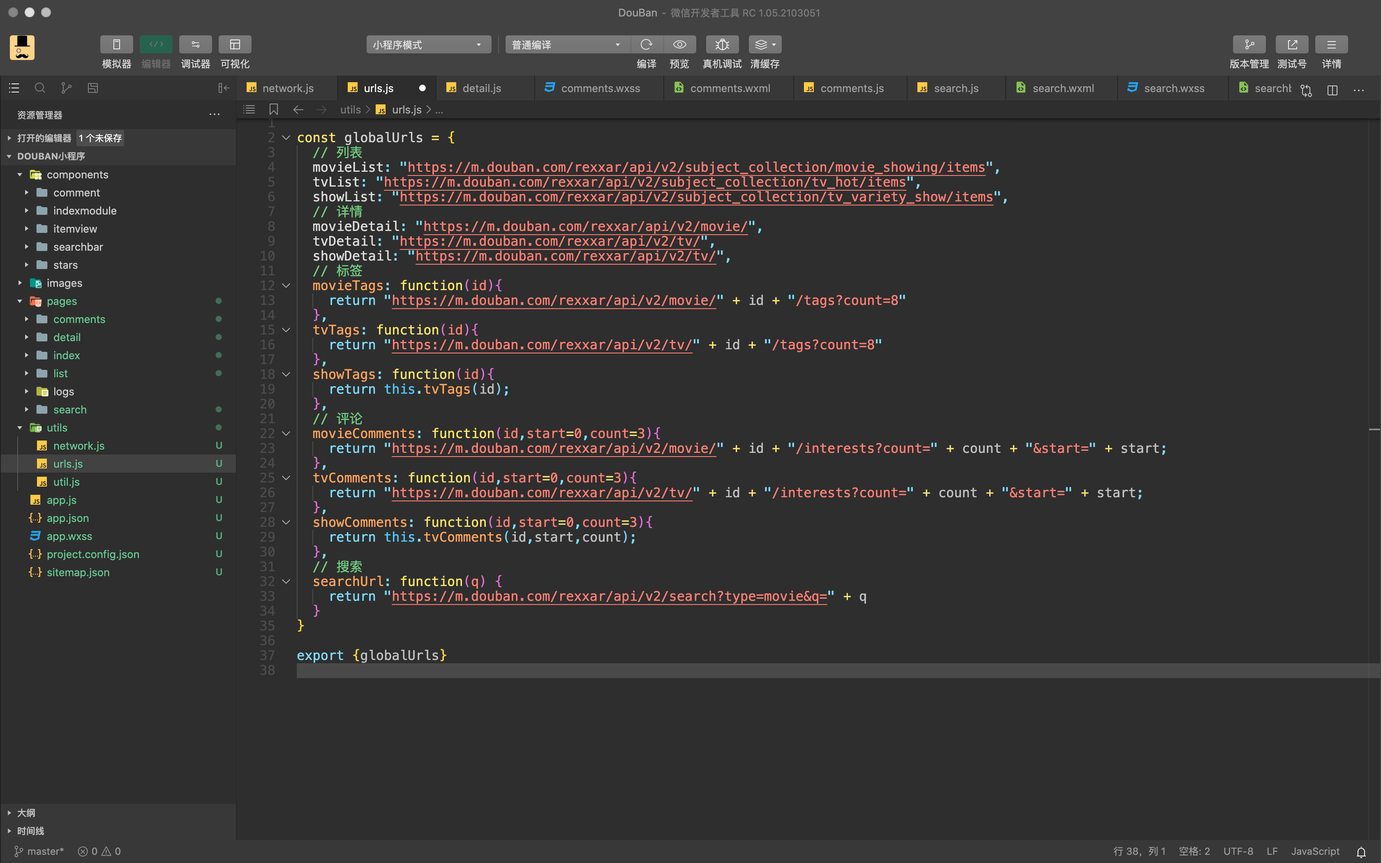
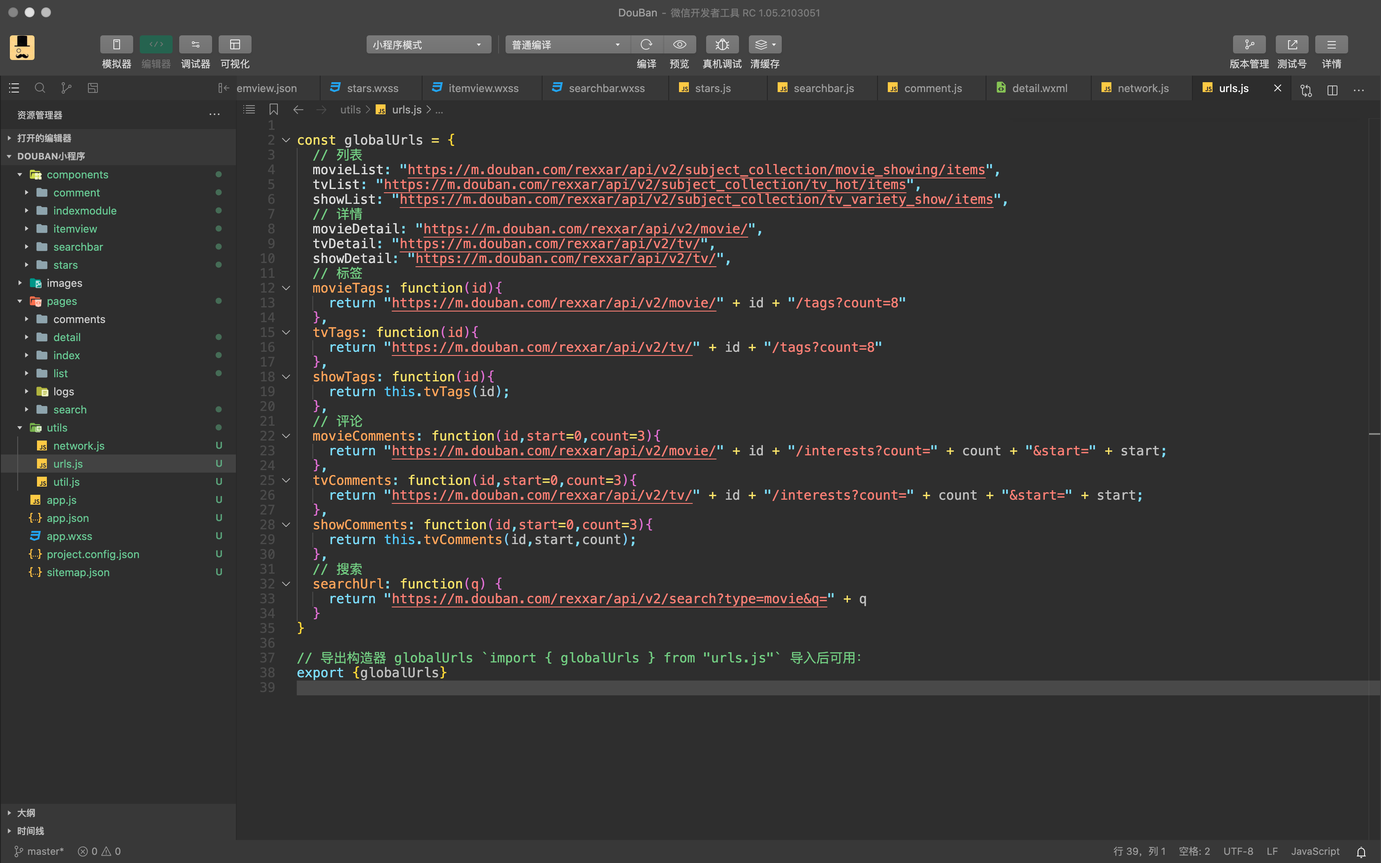
Site updated: 2021-03-25 17:04:52

diff --git a/2021/03/02/Other/微信小程序/index.html b/2021/03/02/Other/微信小程序/index.html
@@ -90,7 +90,7 @@
 <meta property="og:image" content="http://yoursite.com/2021/03/02/Other/微信小程序/微信小程序07.png">
 <meta property="og:image" content="http://yoursite.com/2021/03/02/Other/微信小程序/微信小程序09.png">
 <meta property="og:image" content="http://yoursite.com/2021/03/02/Other/微信小程序/微信小程序10.png">
-<meta property="og:updated_time" content="2021-03-25T08:57:25.616Z">
+<meta property="og:updated_time" content="2021-03-25T09:04:22.516Z">
 <meta name="twitter:card" content="summary">
 <meta name="twitter:title" content="微信小程序">
 <meta name="twitter:description" content="微信官方文档">
@@ -387,12 +387,13 @@
 <h4 id="search-js"><a href="#search-js" class="headerlink" title="search.js"></a>search.js</h4><figure class="highlight cs"><table><tr><td class="gutter"><pre><div class="line">1</div><div class="line">2</div><div class="line">3</div><div class="line">4</div><div class="line">5</div><div class="line">6</div><div class="line">7</div><div class="line">8</div><div class="line">9</div><div class="line">10</div><div class="line">11</div><div class="line">12</div><div class="line">13</div><div class="line">14</div><div class="line">15</div><div class="line">16</div><div class="line">17</div><div class="line">18</div><div class="line">19</div><div class="line">20</div><div class="line">21</div><div class="line">22</div><div class="line">23</div><div class="line">24</div><div class="line">25</div><div class="line">26</div><div class="line">27</div><div class="line">28</div><div class="line">29</div><div class="line">30</div><div class="line">31</div><div class="line">32</div><div class="line">33</div></pre></td><td class="code"><pre><div class="line"><span class="comment">// components/searchbar/searchbar.js</span></div><div class="line">Component(&#123;</div><div class="line">  <span class="comment">/**</span></div><div class="line"><span class="comment">   * 组件的属性列表</span></div><div class="line"><span class="comment">   */</span></div><div class="line">  properties: &#123;</div><div class="line">    isnavigator: &#123;</div><div class="line">      type: Boolean,</div><div class="line">      <span class="keyword">value</span>: <span class="literal">false</span></div><div class="line">    &#125;</div><div class="line">  &#125;,</div><div class="line"></div><div class="line">  <span class="comment">/**</span></div><div class="line"><span class="comment">   * 组件的初始数据</span></div><div class="line"><span class="comment">   */</span></div><div class="line">  data: &#123;</div><div class="line"></div><div class="line">  &#125;,</div><div class="line"></div><div class="line">  <span class="comment">/**</span></div><div class="line"><span class="comment">   * 组件的方法列表</span></div><div class="line"><span class="comment">   */</span></div><div class="line">  methods: &#123;</div><div class="line">    <span class="comment">// 输入框输入回调</span></div><div class="line">    onInputEvent: function(<span class="keyword">event</span>) &#123;</div><div class="line">      <span class="keyword">var</span> <span class="keyword">value</span> = <span class="keyword">event</span>.detail.<span class="keyword">value</span>;</div><div class="line">      <span class="keyword">var</span> detail = &#123;<span class="string">"value"</span>: <span class="keyword">value</span>&#125;;</div><div class="line">      <span class="keyword">var</span> options = &#123;&#125;;</div><div class="line">      <span class="comment">// 回调方法</span></div><div class="line">      <span class="keyword">this</span>.triggerEvent(<span class="string">"searchinput"</span>,detail,options);</div><div class="line">    &#125;</div><div class="line">  &#125;</div><div class="line">&#125;)</div></pre></td></tr></table></figure>
 <p><code>isnavigator</code> 用于判断是否创建导航控件。<br><code>onInputEvent</code> 是输入框正在输入的回调事件。<br><code>this.triggerEvent(&quot;searchinput&quot;,detail,options);</code> 主动触发事件 triggerEvent，参数为 “searchinput”,detail,options。因为这里的 searchbar 是自定义组件，所以需要将输入事件传递给外部调用者，外部调用者需要实现 triggerEvent 事件。</p>
 <h2 id="网络"><a href="#网络" class="headerlink" title="网络"></a>网络</h2><h3 id="urls-js"><a href="#urls-js" class="headerlink" title="urls.js"></a>urls.js</h3><p><img src="/2021/03/02/Other/微信小程序/微信小程序11.png" alt="微信小程序11"></p>
-<p>定义类 globalUrls：<br><figure class="highlight actionscript"><table><tr><td class="gutter"><pre><div class="line">1</div><div class="line">2</div><div class="line">3</div></pre></td><td class="code"><pre><div class="line"><span class="keyword">const</span> globalUrls = &#123;</div><div class="line">    <span class="comment">// 内容</span></div><div class="line">&#125;</div></pre></td></tr></table></figure></p>
+<p>定义构造器 globalUrls：<br><figure class="highlight actionscript"><table><tr><td class="gutter"><pre><div class="line">1</div><div class="line">2</div><div class="line">3</div></pre></td><td class="code"><pre><div class="line"><span class="keyword">const</span> globalUrls = &#123;</div><div class="line">    <span class="comment">// 内容</span></div><div class="line">&#125;</div></pre></td></tr></table></figure></p>
 <p>定义 url 变量：<br><figure class="highlight dts"><table><tr><td class="gutter"><pre><div class="line">1</div><div class="line">2</div><div class="line">3</div><div class="line">4</div><div class="line">5</div><div class="line">6</div><div class="line">7</div><div class="line">8</div></pre></td><td class="code"><pre><div class="line"><span class="comment">// 列表</span></div><div class="line"><span class="symbol">movieList:</span> <span class="string">"https://m.douban.com/rexxar/api/v2/subject_collection/movie_showing/items"</span>,</div><div class="line"><span class="symbol">tvList:</span> <span class="string">"https://m.douban.com/rexxar/api/v2/subject_collection/tv_hot/items"</span>,</div><div class="line"><span class="symbol">showList:</span> <span class="string">"https://m.douban.com/rexxar/api/v2/subject_collection/tv_variety_show/items"</span>,</div><div class="line"><span class="comment">// 详情</span></div><div class="line"><span class="symbol">movieDetail:</span> <span class="string">"https://m.douban.com/rexxar/api/v2/movie/"</span>,</div><div class="line"><span class="symbol">tvDetail:</span> <span class="string">"https://m.douban.com/rexxar/api/v2/tv/"</span>,</div><div class="line"><span class="symbol">showDetail:</span> <span class="string">"https://m.douban.com/rexxar/api/v2/tv/"</span>,</div></pre></td></tr></table></figure></p>
 <p>根据参数拼接 url：<br><figure class="highlight actionscript"><table><tr><td class="gutter"><pre><div class="line">1</div><div class="line">2</div><div class="line">3</div><div class="line">4</div><div class="line">5</div><div class="line">6</div><div class="line">7</div><div class="line">8</div><div class="line">9</div><div class="line">10</div><div class="line">11</div><div class="line">12</div><div class="line">13</div><div class="line">14</div><div class="line">15</div><div class="line">16</div><div class="line">17</div><div class="line">18</div><div class="line">19</div><div class="line">20</div><div class="line">21</div><div class="line">22</div><div class="line">23</div><div class="line">24</div></pre></td><td class="code"><pre><div class="line"><span class="comment">// 标签</span></div><div class="line">movieTags: <span class="function"><span class="keyword">function</span><span class="params">(id)</span></span>&#123;</div><div class="line">  <span class="keyword">return</span> <span class="string">"https://m.douban.com/rexxar/api/v2/movie/"</span> + id + <span class="string">"/tags?count=8"</span></div><div class="line">&#125;,</div><div class="line">tvTags: <span class="function"><span class="keyword">function</span><span class="params">(id)</span></span>&#123;</div><div class="line">  <span class="keyword">return</span> <span class="string">"https://m.douban.com/rexxar/api/v2/tv/"</span> + id + <span class="string">"/tags?count=8"</span></div><div class="line">&#125;,</div><div class="line">showTags: <span class="function"><span class="keyword">function</span><span class="params">(id)</span></span>&#123;</div><div class="line">  <span class="keyword">return</span> <span class="keyword">this</span>.tvTags(id);</div><div class="line">&#125;,</div><div class="line"><span class="comment">// 评论</span></div><div class="line">movieComments: <span class="function"><span class="keyword">function</span><span class="params">(id,start=0,count=3)</span></span>&#123;</div><div class="line">  <span class="keyword">return</span> <span class="string">"https://m.douban.com/rexxar/api/v2/movie/"</span> + id + <span class="string">"/interests?count="</span> + count + <span class="string">"&amp;start="</span> + start;</div><div class="line">&#125;,</div><div class="line">tvComments: <span class="function"><span class="keyword">function</span><span class="params">(id,start=0,count=3)</span></span>&#123;</div><div class="line">  <span class="keyword">return</span> <span class="string">"https://m.douban.com/rexxar/api/v2/tv/"</span> + id + <span class="string">"/interests?count="</span> + count + <span class="string">"&amp;start="</span> + start;</div><div class="line">&#125;,</div><div class="line">showComments: <span class="function"><span class="keyword">function</span><span class="params">(id,start=0,count=3)</span></span>&#123;</div><div class="line">  <span class="keyword">return</span> <span class="keyword">this</span>.tvComments(id,start,count);</div><div class="line">&#125;,</div><div class="line"><span class="comment">// 搜索</span></div><div class="line">searchUrl: <span class="function"><span class="keyword">function</span><span class="params">(q)</span> </span>&#123;</div><div class="line">  <span class="keyword">return</span> <span class="string">"https://m.douban.com/rexxar/api/v2/search?type=movie&amp;q="</span> + q</div><div class="line">&#125;</div></pre></td></tr></table></figure></p>
-<p>导出 globalUrls 类，导出后外部调用者通过 <code>import { globalUrls } from &quot;urls.js&quot;</code> 导入后可用：<br><figure class="highlight routeros"><table><tr><td class="gutter"><pre><div class="line">1</div></pre></td><td class="code"><pre><div class="line"><span class="builtin-name">export</span> &#123;globalUrls&#125;</div></pre></td></tr></table></figure></p>
-<h3 id="network"><a href="#network" class="headerlink" title="network"></a>network</h3><figure class="highlight lasso"><table><tr><td class="gutter"><pre><div class="line">1</div><div class="line">2</div><div class="line">3</div><div class="line">4</div><div class="line">5</div><div class="line">6</div><div class="line">7</div><div class="line">8</div><div class="line">9</div><div class="line">10</div><div class="line">11</div><div class="line">12</div><div class="line">13</div><div class="line">14</div><div class="line">15</div><div class="line">16</div><div class="line">17</div><div class="line">18</div><div class="line">19</div><div class="line">20</div><div class="line">21</div><div class="line">22</div><div class="line">23</div><div class="line">24</div><div class="line">25</div><div class="line">26</div><div class="line">27</div><div class="line">28</div><div class="line">29</div><div class="line">30</div><div class="line">31</div><div class="line">32</div><div class="line">33</div><div class="line">34</div><div class="line">35</div><div class="line">36</div><div class="line">37</div><div class="line">38</div><div class="line">39</div><div class="line">40</div><div class="line">41</div><div class="line">42</div><div class="line">43</div><div class="line">44</div><div class="line">45</div><div class="line">46</div><div class="line">47</div><div class="line">48</div><div class="line">49</div><div class="line">50</div><div class="line">51</div><div class="line">52</div><div class="line">53</div><div class="line">54</div><div class="line">55</div><div class="line">56</div><div class="line">57</div><div class="line">58</div><div class="line">59</div><div class="line">60</div><div class="line">61</div><div class="line">62</div><div class="line">63</div><div class="line">64</div><div class="line">65</div><div class="line">66</div><div class="line">67</div><div class="line">68</div><div class="line">69</div><div class="line">70</div><div class="line">71</div><div class="line">72</div><div class="line">73</div><div class="line">74</div><div class="line">75</div><div class="line">76</div><div class="line">77</div><div class="line">78</div><div class="line">79</div><div class="line">80</div><div class="line">81</div><div class="line">82</div><div class="line">83</div><div class="line">84</div><div class="line">85</div><div class="line">86</div><div class="line">87</div><div class="line">88</div><div class="line">89</div><div class="line">90</div><div class="line">91</div><div class="line">92</div><div class="line">93</div><div class="line">94</div><div class="line">95</div><div class="line">96</div><div class="line">97</div><div class="line">98</div><div class="line">99</div><div class="line">100</div><div class="line">101</div><div class="line">102</div><div class="line">103</div><div class="line">104</div><div class="line">105</div><div class="line">106</div><div class="line">107</div><div class="line">108</div><div class="line">109</div><div class="line">110</div><div class="line">111</div><div class="line">112</div><div class="line">113</div><div class="line">114</div><div class="line">115</div><div class="line">116</div><div class="line">117</div><div class="line">118</div><div class="line">119</div><div class="line">120</div><div class="line">121</div><div class="line">122</div><div class="line">123</div><div class="line">124</div><div class="line">125</div><div class="line">126</div><div class="line">127</div><div class="line">128</div><div class="line">129</div><div class="line">130</div><div class="line">131</div><div class="line">132</div><div class="line">133</div><div class="line">134</div><div class="line">135</div><div class="line">136</div><div class="line">137</div><div class="line">138</div><div class="line">139</div><div class="line">140</div><div class="line">141</div><div class="line">142</div><div class="line">143</div><div class="line">144</div><div class="line">145</div><div class="line">146</div><div class="line">147</div><div class="line">148</div><div class="line">149</div><div class="line">150</div><div class="line">151</div><div class="line">152</div><div class="line">153</div><div class="line">154</div><div class="line">155</div></pre></td><td class="code"><pre><div class="line"><span class="comment">// 导入 globalUrls 类</span></div><div class="line"><span class="keyword">import</span> &#123; globalUrls &#125; from <span class="string">"urls.js"</span></div><div class="line"></div><div class="line"></div><div class="line"><span class="comment">// 定义类 network</span></div><div class="line">const network = &#123;</div><div class="line">  <span class="comment">// 电影</span></div><div class="line">  getMovieList: function (<span class="keyword">params</span>) &#123;</div><div class="line">    <span class="keyword">params</span>.<span class="keyword">type</span> = <span class="string">"movie"</span>;</div><div class="line">    this.getItemList(<span class="keyword">params</span>);</div><div class="line">  &#125;,</div><div class="line"></div><div class="line">  <span class="comment">// 电视剧</span></div><div class="line">  getTVList: function (<span class="keyword">params</span>) &#123;</div><div class="line">    <span class="keyword">params</span>.<span class="keyword">type</span> = <span class="string">"tv"</span>;</div><div class="line">    this.getItemList(<span class="keyword">params</span>);</div><div class="line">  &#125;,</div><div class="line"></div><div class="line">  <span class="comment">// 综艺</span></div><div class="line">  getShowList: function (<span class="keyword">params</span>) &#123;</div><div class="line">    <span class="keyword">params</span>.<span class="keyword">type</span> = <span class="string">"show"</span>;</div><div class="line">    this.getItemList(<span class="keyword">params</span>);</div><div class="line">  &#125;,</div><div class="line"></div><div class="line">  <span class="comment">// 首页列表</span></div><div class="line">  getItemList: function (<span class="keyword">params</span>) &#123;</div><div class="line">    <span class="built_in">var</span> url = <span class="string">""</span>;</div><div class="line">    <span class="keyword">if</span> (<span class="keyword">params</span>.<span class="keyword">type</span> == <span class="string">"movie"</span>) &#123;</div><div class="line">      url = globalUrls.movieList;</div><div class="line">    &#125; <span class="keyword">else</span> <span class="keyword">if</span> (<span class="keyword">params</span>.<span class="keyword">type</span> == <span class="string">"tv"</span>) &#123;</div><div class="line">      url = globalUrls.tvList;</div><div class="line">    &#125; <span class="keyword">else</span> <span class="keyword">if</span> (<span class="keyword">params</span>.<span class="keyword">type</span> == <span class="string">"show"</span>) &#123;</div><div class="line">      url = globalUrls.showList;</div><div class="line">    &#125; <span class="keyword">else</span> &#123; </div><div class="line">    </div><div class="line">    &#125;</div><div class="line">    <span class="built_in">var</span> count = <span class="keyword">params</span>.count ? <span class="keyword">params</span>.count : <span class="number">7</span>;</div><div class="line">    <span class="comment">// 发起网络请求</span></div><div class="line">    wx.request(&#123;</div><div class="line">      <span class="comment">// 设置请求url</span></div><div class="line">      url: url,</div><div class="line">      <span class="comment">// 设置请求参数</span></div><div class="line">      <span class="built_in">data</span>: &#123;</div><div class="line">        count: count</div><div class="line">      &#125;,</div><div class="line">      <span class="comment">// 请求成功回调</span></div><div class="line">      success: function(res) &#123;</div><div class="line">        <span class="built_in">var</span> items = res.<span class="built_in">data</span>.subject_collection_items;</div><div class="line">        <span class="built_in">var</span> itemCount = items.length;</div><div class="line">        <span class="built_in">var</span> left = itemCount%<span class="number">3</span>;</div><div class="line">        <span class="keyword">if</span> (left === <span class="number">2</span>) &#123;</div><div class="line">          items.push(<span class="built_in">null</span>);</div><div class="line">        &#125;</div><div class="line">        <span class="keyword">if</span> (<span class="keyword">params</span> &amp;&amp; <span class="keyword">params</span>.success) &#123;</div><div class="line">          <span class="keyword">params</span>.success(items);</div><div class="line">        &#125;</div><div class="line">      &#125;</div><div class="line">    &#125;)</div><div class="line">  &#125;,</div><div class="line">  </div><div class="line">  <span class="comment">// 详情</span></div><div class="line">  getItemDetail: function(<span class="keyword">params</span>) &#123;</div><div class="line">    <span class="built_in">var</span> <span class="keyword">type</span> = <span class="keyword">params</span>.<span class="keyword">type</span>;</div><div class="line">    <span class="built_in">var</span> id = <span class="keyword">params</span>.id;</div><div class="line">    <span class="built_in">var</span> url = <span class="string">""</span>;</div><div class="line">    <span class="keyword">if</span> (<span class="keyword">type</span> === <span class="string">"movie"</span>) &#123;</div><div class="line">      url = globalUrls.movieDetail + id;</div><div class="line">    &#125; <span class="keyword">else</span> <span class="keyword">if</span> (<span class="keyword">type</span> === <span class="string">"tv"</span>) &#123;</div><div class="line">      url = globalUrls.tvDetail + id;</div><div class="line">    &#125; <span class="keyword">else</span> <span class="keyword">if</span> (<span class="keyword">type</span> === <span class="string">"show"</span>) &#123;</div><div class="line">      url = globalUrls.showDetail + id;</div><div class="line">    &#125; <span class="keyword">else</span> &#123;</div><div class="line"></div><div class="line">    &#125;</div><div class="line">    wx.request(&#123;</div><div class="line">      url: url,</div><div class="line">      success: function(res) &#123;</div><div class="line">        <span class="built_in">var</span> item = res.<span class="built_in">data</span>;</div><div class="line">        <span class="keyword">if</span> (<span class="keyword">params</span>.success) &#123;</div><div class="line">          <span class="keyword">params</span>.success(item);</div><div class="line">        &#125;</div><div class="line">      &#125;</div><div class="line">    &#125;)</div><div class="line">  &#125;,</div><div class="line">  </div><div class="line">  <span class="comment">// 标签</span></div><div class="line">  getItemTags: function(<span class="keyword">params</span>) &#123;</div><div class="line">    <span class="built_in">var</span> <span class="keyword">type</span> = <span class="keyword">params</span>.<span class="keyword">type</span>;</div><div class="line">    <span class="built_in">var</span> id = <span class="keyword">params</span>.id;</div><div class="line">    <span class="built_in">var</span> url = <span class="string">""</span>;</div><div class="line">    <span class="keyword">if</span> (<span class="keyword">type</span> === <span class="string">"movie"</span>) &#123;</div><div class="line">      url = globalUrls.movieTags(id);</div><div class="line">    &#125; <span class="keyword">else</span> <span class="keyword">if</span> (<span class="keyword">type</span> === <span class="string">"tv"</span>) &#123;</div><div class="line">      url = globalUrls.tvTags(id);</div><div class="line">    &#125; <span class="keyword">else</span> <span class="keyword">if</span> (<span class="keyword">type</span> === <span class="string">"show"</span>) &#123;</div><div class="line">      url = globalUrls.showTags(id);</div><div class="line">    &#125; <span class="keyword">else</span> &#123;</div><div class="line"></div><div class="line">    &#125;</div><div class="line">    wx.request(&#123;</div><div class="line">      url: url,</div><div class="line">      success: function(res) &#123;</div><div class="line">        <span class="built_in">var</span> tags = res.<span class="built_in">data</span>.tags;</div><div class="line">        <span class="keyword">if</span> (<span class="keyword">params</span>.success) &#123;</div><div class="line">          <span class="keyword">params</span>.success(tags)</div><div class="line">        &#125;</div><div class="line">      &#125;</div><div class="line">    &#125;)</div><div class="line">  &#125;,</div><div class="line"></div><div class="line">  <span class="comment">// 评论</span></div><div class="line">  getItemComments: function(<span class="keyword">params</span>) &#123;</div><div class="line">    <span class="built_in">var</span> <span class="keyword">type</span> = <span class="keyword">params</span>.<span class="keyword">type</span>;</div><div class="line">    <span class="built_in">var</span> id = <span class="keyword">params</span>.id;</div><div class="line">    <span class="built_in">var</span> start = <span class="keyword">params</span>.start;</div><div class="line">    <span class="built_in">var</span> count = <span class="keyword">params</span>.count;</div><div class="line">    <span class="built_in">var</span> url = <span class="string">""</span>;</div><div class="line">    <span class="keyword">if</span> (<span class="keyword">type</span> === <span class="string">"movie"</span>) &#123;</div><div class="line">      url = globalUrls.movieComments(id,start,count);</div><div class="line">    &#125; <span class="keyword">else</span> <span class="keyword">if</span> (<span class="keyword">type</span> === <span class="string">"tv"</span>) &#123;</div><div class="line">      url = globalUrls.tvComments(id,start,count);</div><div class="line">    &#125; <span class="keyword">else</span> <span class="keyword">if</span> (<span class="keyword">type</span> === <span class="string">"show"</span>) &#123;</div><div class="line">      url = globalUrls.showComments(id,start,count);</div><div class="line">    &#125; <span class="keyword">else</span> &#123;</div><div class="line"></div><div class="line">    &#125;</div><div class="line">    wx.request(&#123;</div><div class="line">      url: url,</div><div class="line">      success: function(res)&#123;</div><div class="line">        <span class="built_in">var</span> comment = res.<span class="built_in">data</span>;</div><div class="line">        <span class="keyword">if</span> (<span class="keyword">params</span>.success) &#123;</div><div class="line">          <span class="keyword">params</span>.success(comment); </div><div class="line">        &#125;</div><div class="line">      &#125;</div><div class="line">    &#125;)</div><div class="line">  &#125;,</div><div class="line"></div><div class="line">  <span class="comment">// 搜索</span></div><div class="line">  getSearch: function(<span class="keyword">params</span>) &#123;</div><div class="line">    <span class="built_in">var</span> q = <span class="keyword">params</span>.q;</div><div class="line">    <span class="built_in">var</span> url = globalUrls.searchUrl(q);</div><div class="line">    wx.request(&#123;</div><div class="line">      url: url,</div><div class="line">      success: function(res)&#123;</div><div class="line">        <span class="built_in">var</span> subjects = res.<span class="built_in">data</span>.subjects;</div><div class="line">        <span class="keyword">if</span> (<span class="keyword">params</span>.success) &#123;</div><div class="line">          <span class="keyword">params</span>.success(subjects);</div><div class="line">        &#125;</div><div class="line">      &#125;</div><div class="line">    &#125;)</div><div class="line">  &#125;</div><div class="line">&#125;</div><div class="line"></div><div class="line"><span class="comment">// 导出 network 类，导出后外部调用者通过 `import &#123;network&#125; from "../../utils/network.js"` 导入后可用：</span></div><div class="line">export &#123; network &#125;</div></pre></td></tr></table></figure>
+<p>导出构造器 globalUrls，导出后外部调用者通过 <code>import { globalUrls } from &quot;urls.js&quot;</code> 导入后可用：<br><figure class="highlight routeros"><table><tr><td class="gutter"><pre><div class="line">1</div></pre></td><td class="code"><pre><div class="line"><span class="builtin-name">export</span> &#123;globalUrls&#125;</div></pre></td></tr></table></figure></p>
+<h3 id="network"><a href="#network" class="headerlink" title="network"></a>network</h3><figure class="highlight lasso"><table><tr><td class="gutter"><pre><div class="line">1</div><div class="line">2</div><div class="line">3</div><div class="line">4</div><div class="line">5</div><div class="line">6</div><div class="line">7</div><div class="line">8</div><div class="line">9</div><div class="line">10</div><div class="line">11</div><div class="line">12</div><div class="line">13</div><div class="line">14</div><div class="line">15</div><div class="line">16</div><div class="line">17</div><div class="line">18</div><div class="line">19</div><div class="line">20</div><div class="line">21</div><div class="line">22</div><div class="line">23</div><div class="line">24</div><div class="line">25</div><div class="line">26</div><div class="line">27</div><div class="line">28</div><div class="line">29</div><div class="line">30</div><div class="line">31</div><div class="line">32</div><div class="line">33</div><div class="line">34</div><div class="line">35</div><div class="line">36</div><div class="line">37</div><div class="line">38</div><div class="line">39</div><div class="line">40</div><div class="line">41</div><div class="line">42</div><div class="line">43</div><div class="line">44</div><div class="line">45</div><div class="line">46</div><div class="line">47</div><div class="line">48</div><div class="line">49</div><div class="line">50</div><div class="line">51</div><div class="line">52</div><div class="line">53</div><div class="line">54</div><div class="line">55</div><div class="line">56</div><div class="line">57</div><div class="line">58</div><div class="line">59</div><div class="line">60</div><div class="line">61</div><div class="line">62</div><div class="line">63</div><div class="line">64</div><div class="line">65</div><div class="line">66</div><div class="line">67</div><div class="line">68</div><div class="line">69</div><div class="line">70</div><div class="line">71</div><div class="line">72</div><div class="line">73</div><div class="line">74</div><div class="line">75</div><div class="line">76</div><div class="line">77</div><div class="line">78</div><div class="line">79</div><div class="line">80</div><div class="line">81</div><div class="line">82</div><div class="line">83</div><div class="line">84</div><div class="line">85</div><div class="line">86</div><div class="line">87</div><div class="line">88</div><div class="line">89</div><div class="line">90</div><div class="line">91</div><div class="line">92</div><div class="line">93</div><div class="line">94</div><div class="line">95</div><div class="line">96</div><div class="line">97</div><div class="line">98</div><div class="line">99</div><div class="line">100</div><div class="line">101</div><div class="line">102</div><div class="line">103</div><div class="line">104</div><div class="line">105</div><div class="line">106</div><div class="line">107</div><div class="line">108</div><div class="line">109</div><div class="line">110</div><div class="line">111</div><div class="line">112</div><div class="line">113</div><div class="line">114</div><div class="line">115</div><div class="line">116</div><div class="line">117</div><div class="line">118</div><div class="line">119</div><div class="line">120</div><div class="line">121</div><div class="line">122</div><div class="line">123</div><div class="line">124</div><div class="line">125</div><div class="line">126</div><div class="line">127</div><div class="line">128</div><div class="line">129</div><div class="line">130</div><div class="line">131</div><div class="line">132</div><div class="line">133</div><div class="line">134</div><div class="line">135</div><div class="line">136</div><div class="line">137</div><div class="line">138</div><div class="line">139</div><div class="line">140</div><div class="line">141</div><div class="line">142</div><div class="line">143</div><div class="line">144</div><div class="line">145</div><div class="line">146</div><div class="line">147</div><div class="line">148</div><div class="line">149</div><div class="line">150</div><div class="line">151</div><div class="line">152</div><div class="line">153</div><div class="line">154</div><div class="line">155</div></pre></td><td class="code"><pre><div class="line"><span class="comment">// 导入 globalUrls 类</span></div><div class="line"><span class="keyword">import</span> &#123; globalUrls &#125; from <span class="string">"urls.js"</span></div><div class="line"></div><div class="line"></div><div class="line"><span class="comment">// 定义构造器 network</span></div><div class="line">const network = &#123;</div><div class="line">  <span class="comment">// 电影</span></div><div class="line">  getMovieList: function (<span class="keyword">params</span>) &#123;</div><div class="line">    <span class="keyword">params</span>.<span class="keyword">type</span> = <span class="string">"movie"</span>;</div><div class="line">    this.getItemList(<span class="keyword">params</span>);</div><div class="line">  &#125;,</div><div class="line"></div><div class="line">  <span class="comment">// 电视剧</span></div><div class="line">  getTVList: function (<span class="keyword">params</span>) &#123;</div><div class="line">    <span class="keyword">params</span>.<span class="keyword">type</span> = <span class="string">"tv"</span>;</div><div class="line">    this.getItemList(<span class="keyword">params</span>);</div><div class="line">  &#125;,</div><div class="line"></div><div class="line">  <span class="comment">// 综艺</span></div><div class="line">  getShowList: function (<span class="keyword">params</span>) &#123;</div><div class="line">    <span class="keyword">params</span>.<span class="keyword">type</span> = <span class="string">"show"</span>;</div><div class="line">    this.getItemList(<span class="keyword">params</span>);</div><div class="line">  &#125;,</div><div class="line"></div><div class="line">  <span class="comment">// 首页列表</span></div><div class="line">  getItemList: function (<span class="keyword">params</span>) &#123;</div><div class="line">    <span class="built_in">var</span> url = <span class="string">""</span>;</div><div class="line">    <span class="keyword">if</span> (<span class="keyword">params</span>.<span class="keyword">type</span> == <span class="string">"movie"</span>) &#123;</div><div class="line">      url = globalUrls.movieList;</div><div class="line">    &#125; <span class="keyword">else</span> <span class="keyword">if</span> (<span class="keyword">params</span>.<span class="keyword">type</span> == <span class="string">"tv"</span>) &#123;</div><div class="line">      url = globalUrls.tvList;</div><div class="line">    &#125; <span class="keyword">else</span> <span class="keyword">if</span> (<span class="keyword">params</span>.<span class="keyword">type</span> == <span class="string">"show"</span>) &#123;</div><div class="line">      url = globalUrls.showList;</div><div class="line">    &#125; <span class="keyword">else</span> &#123; </div><div class="line">    </div><div class="line">    &#125;</div><div class="line">    <span class="built_in">var</span> count = <span class="keyword">params</span>.count ? <span class="keyword">params</span>.count : <span class="number">7</span>;</div><div class="line">    <span class="comment">// 发起网络请求</span></div><div class="line">    wx.request(&#123;</div><div class="line">      <span class="comment">// 设置请求url</span></div><div class="line">      url: url,</div><div class="line">      <span class="comment">// 设置请求参数</span></div><div class="line">      <span class="built_in">data</span>: &#123;</div><div class="line">        count: count</div><div class="line">      &#125;,</div><div class="line">      <span class="comment">// 请求成功回调</span></div><div class="line">      success: function(res) &#123;</div><div class="line">        <span class="built_in">var</span> items = res.<span class="built_in">data</span>.subject_collection_items;</div><div class="line">        <span class="built_in">var</span> itemCount = items.length;</div><div class="line">        <span class="built_in">var</span> left = itemCount%<span class="number">3</span>;</div><div class="line">        <span class="keyword">if</span> (left === <span class="number">2</span>) &#123;</div><div class="line">          items.push(<span class="built_in">null</span>);</div><div class="line">        &#125;</div><div class="line">        <span class="keyword">if</span> (<span class="keyword">params</span> &amp;&amp; <span class="keyword">params</span>.success) &#123;</div><div class="line">          <span class="keyword">params</span>.success(items);</div><div class="line">        &#125;</div><div class="line">      &#125;</div><div class="line">    &#125;)</div><div class="line">  &#125;,</div><div class="line">  </div><div class="line">  <span class="comment">// 详情</span></div><div class="line">  getItemDetail: function(<span class="keyword">params</span>) &#123;</div><div class="line">    <span class="built_in">var</span> <span class="keyword">type</span> = <span class="keyword">params</span>.<span class="keyword">type</span>;</div><div class="line">    <span class="built_in">var</span> id = <span class="keyword">params</span>.id;</div><div class="line">    <span class="built_in">var</span> url = <span class="string">""</span>;</div><div class="line">    <span class="keyword">if</span> (<span class="keyword">type</span> === <span class="string">"movie"</span>) &#123;</div><div class="line">      url = globalUrls.movieDetail + id;</div><div class="line">    &#125; <span class="keyword">else</span> <span class="keyword">if</span> (<span class="keyword">type</span> === <span class="string">"tv"</span>) &#123;</div><div class="line">      url = globalUrls.tvDetail + id;</div><div class="line">    &#125; <span class="keyword">else</span> <span class="keyword">if</span> (<span class="keyword">type</span> === <span class="string">"show"</span>) &#123;</div><div class="line">      url = globalUrls.showDetail + id;</div><div class="line">    &#125; <span class="keyword">else</span> &#123;</div><div class="line"></div><div class="line">    &#125;</div><div class="line">    wx.request(&#123;</div><div class="line">      url: url,</div><div class="line">      success: function(res) &#123;</div><div class="line">        <span class="built_in">var</span> item = res.<span class="built_in">data</span>;</div><div class="line">        <span class="keyword">if</span> (<span class="keyword">params</span>.success) &#123;</div><div class="line">          <span class="keyword">params</span>.success(item);</div><div class="line">        &#125;</div><div class="line">      &#125;</div><div class="line">    &#125;)</div><div class="line">  &#125;,</div><div class="line">  </div><div class="line">  <span class="comment">// 标签</span></div><div class="line">  getItemTags: function(<span class="keyword">params</span>) &#123;</div><div class="line">    <span class="built_in">var</span> <span class="keyword">type</span> = <span class="keyword">params</span>.<span class="keyword">type</span>;</div><div class="line">    <span class="built_in">var</span> id = <span class="keyword">params</span>.id;</div><div class="line">    <span class="built_in">var</span> url = <span class="string">""</span>;</div><div class="line">    <span class="keyword">if</span> (<span class="keyword">type</span> === <span class="string">"movie"</span>) &#123;</div><div class="line">      url = globalUrls.movieTags(id);</div><div class="line">    &#125; <span class="keyword">else</span> <span class="keyword">if</span> (<span class="keyword">type</span> === <span class="string">"tv"</span>) &#123;</div><div class="line">      url = globalUrls.tvTags(id);</div><div class="line">    &#125; <span class="keyword">else</span> <span class="keyword">if</span> (<span class="keyword">type</span> === <span class="string">"show"</span>) &#123;</div><div class="line">      url = globalUrls.showTags(id);</div><div class="line">    &#125; <span class="keyword">else</span> &#123;</div><div class="line"></div><div class="line">    &#125;</div><div class="line">    wx.request(&#123;</div><div class="line">      url: url,</div><div class="line">      success: function(res) &#123;</div><div class="line">        <span class="built_in">var</span> tags = res.<span class="built_in">data</span>.tags;</div><div class="line">        <span class="keyword">if</span> (<span class="keyword">params</span>.success) &#123;</div><div class="line">          <span class="keyword">params</span>.success(tags)</div><div class="line">        &#125;</div><div class="line">      &#125;</div><div class="line">    &#125;)</div><div class="line">  &#125;,</div><div class="line"></div><div class="line">  <span class="comment">// 评论</span></div><div class="line">  getItemComments: function(<span class="keyword">params</span>) &#123;</div><div class="line">    <span class="built_in">var</span> <span class="keyword">type</span> = <span class="keyword">params</span>.<span class="keyword">type</span>;</div><div class="line">    <span class="built_in">var</span> id = <span class="keyword">params</span>.id;</div><div class="line">    <span class="built_in">var</span> start = <span class="keyword">params</span>.start;</div><div class="line">    <span class="built_in">var</span> count = <span class="keyword">params</span>.count;</div><div class="line">    <span class="built_in">var</span> url = <span class="string">""</span>;</div><div class="line">    <span class="keyword">if</span> (<span class="keyword">type</span> === <span class="string">"movie"</span>) &#123;</div><div class="line">      url = globalUrls.movieComments(id,start,count);</div><div class="line">    &#125; <span class="keyword">else</span> <span class="keyword">if</span> (<span class="keyword">type</span> === <span class="string">"tv"</span>) &#123;</div><div class="line">      url = globalUrls.tvComments(id,start,count);</div><div class="line">    &#125; <span class="keyword">else</span> <span class="keyword">if</span> (<span class="keyword">type</span> === <span class="string">"show"</span>) &#123;</div><div class="line">      url = globalUrls.showComments(id,start,count);</div><div class="line">    &#125; <span class="keyword">else</span> &#123;</div><div class="line"></div><div class="line">    &#125;</div><div class="line">    wx.request(&#123;</div><div class="line">      url: url,</div><div class="line">      success: function(res)&#123;</div><div class="line">        <span class="built_in">var</span> comment = res.<span class="built_in">data</span>;</div><div class="line">        <span class="keyword">if</span> (<span class="keyword">params</span>.success) &#123;</div><div class="line">          <span class="keyword">params</span>.success(comment); </div><div class="line">        &#125;</div><div class="line">      &#125;</div><div class="line">    &#125;)</div><div class="line">  &#125;,</div><div class="line"></div><div class="line">  <span class="comment">// 搜索</span></div><div class="line">  getSearch: function(<span class="keyword">params</span>) &#123;</div><div class="line">    <span class="built_in">var</span> q = <span class="keyword">params</span>.q;</div><div class="line">    <span class="built_in">var</span> url = globalUrls.searchUrl(q);</div><div class="line">    wx.request(&#123;</div><div class="line">      url: url,</div><div class="line">      success: function(res)&#123;</div><div class="line">        <span class="built_in">var</span> subjects = res.<span class="built_in">data</span>.subjects;</div><div class="line">        <span class="keyword">if</span> (<span class="keyword">params</span>.success) &#123;</div><div class="line">          <span class="keyword">params</span>.success(subjects);</div><div class="line">        &#125;</div><div class="line">      &#125;</div><div class="line">    &#125;)</div><div class="line">  &#125;</div><div class="line">&#125;</div><div class="line"></div><div class="line"><span class="comment">// 导出构造器 network，导出后外部调用者通过 `import &#123;network&#125; from "../../utils/network.js"` 导入后可用：</span></div><div class="line">export &#123; network &#125;</div></pre></td></tr></table></figure>
 <h2 id="页面"><a href="#页面" class="headerlink" title="页面"></a>页面</h2><p><img src="https://developers.weixin.qq.com/miniprogram/dev/framework/app-service/page-life-cycle.html" alt="页面生命周期"></p>
+<p>生命周期函数在 .js 文件：<a href="https://developers.weixin.qq.com/miniprogram/dev/framework/app-service/page.html" target="_blank" rel="external">注册页面</a></p>
 <h3 id="首页"><a href="#首页" class="headerlink" title="首页"></a>首页</h3><p><img src="/2021/03/02/Other/微信小程序/微信小程序07.png" alt="微信小程序07"></p>
 <h4 id="index-wxml"><a href="#index-wxml" class="headerlink" title="index.wxml"></a>index.wxml</h4><figure class="highlight django"><table><tr><td class="gutter"><pre><div class="line">1</div><div class="line">2</div><div class="line">3</div><div class="line">4</div><div class="line">5</div><div class="line">6</div><div class="line">7</div><div class="line">8</div><div class="line">9</div><div class="line">10</div><div class="line">11</div></pre></td><td class="code"><pre><div class="line"><span class="xml"><span class="comment">&lt;!--index.wxml--&gt;</span></span></div><div class="line"><span class="xml"><span class="tag">&lt;<span class="name">searchbar</span> <span class="attr">isnavigator</span>=<span class="string">"</span></span></span><span class="template-variable">&#123;&#123;true&#125;&#125;</span><span class="xml"><span class="tag"><span class="string">"</span>&gt;</span><span class="tag">&lt;/<span class="name">searchbar</span>&gt;</span></span></div><div class="line"><span class="xml"></span></div><div class="line"><span class="xml"><span class="comment">&lt;!-- 电影 --&gt;</span></span></div><div class="line"><span class="xml"><span class="tag">&lt;<span class="name">indexmodule</span> <span class="attr">title</span>=<span class="string">"电影"</span> <span class="attr">moreurl</span>=<span class="string">"/pages/list/list?type=movie"</span> <span class="attr">items</span>=<span class="string">"</span></span></span><span class="template-variable">&#123;&#123;movies&#125;&#125;</span><span class="xml"><span class="tag"><span class="string">"</span> <span class="attr">type</span>=<span class="string">"movie"</span>&gt;</span><span class="tag">&lt;/<span class="name">indexmodule</span>&gt;</span></span></div><div class="line"><span class="xml"></span></div><div class="line"><span class="xml"><span class="comment">&lt;!-- 电视剧 --&gt;</span></span></div><div class="line"><span class="xml"><span class="tag">&lt;<span class="name">indexmodule</span> <span class="attr">title</span>=<span class="string">"电视剧"</span> <span class="attr">moreurl</span>=<span class="string">"/pages/list/list?type=tv"</span> <span class="attr">items</span>=<span class="string">"</span></span></span><span class="template-variable">&#123;&#123;tvs&#125;&#125;</span><span class="xml"><span class="tag"><span class="string">"</span> <span class="attr">type</span>=<span class="string">"tv"</span>&gt;</span><span class="tag">&lt;/<span class="name">indexmodule</span>&gt;</span></span></div><div class="line"><span class="xml"></span></div><div class="line"><span class="xml"><span class="comment">&lt;!-- 综艺 --&gt;</span></span></div><div class="line"><span class="xml"><span class="tag">&lt;<span class="name">indexmodule</span> <span class="attr">title</span>=<span class="string">"综艺"</span> <span class="attr">moreurl</span>=<span class="string">"/pages/list/list?type=show"</span> <span class="attr">items</span>=<span class="string">"</span></span></span><span class="template-variable">&#123;&#123;shows&#125;&#125;</span><span class="xml"><span class="tag"><span class="string">"</span> <span class="attr">type</span>=<span class="string">"show"</span>&gt;</span><span class="tag">&lt;/<span class="name">indexmodule</span>&gt;</span></span></div></pre></td></tr></table></figure>
 <p>创建自定义组件 <code>searchbar</code>， 指定导航 isnavigator = true。<br><figure class="highlight django"><table><tr><td class="gutter"><pre><div class="line">1</div></pre></td><td class="code"><pre><div class="line"><span class="xml"><span class="tag">&lt;<span class="name">searchbar</span> <span class="attr">isnavigator</span>=<span class="string">"</span></span></span><span class="template-variable">&#123;&#123;true&#125;&#125;</span><span class="xml"><span class="tag"><span class="string">"</span>&gt;</span><span class="tag">&lt;/<span class="name">searchbar</span>&gt;</span></span></div></pre></td></tr></table></figure></p>

diff --git a/css/main.css b/css/main.css
@@ -1818,7 +1818,7 @@ pre .javascript .function {
   width: 4px;
   height: 4px;
   border-radius: 50%;
-  background: #f6ff49;
+  background: #33ff67;
 }
 .links-of-blogroll {
   font-size: 13px;
